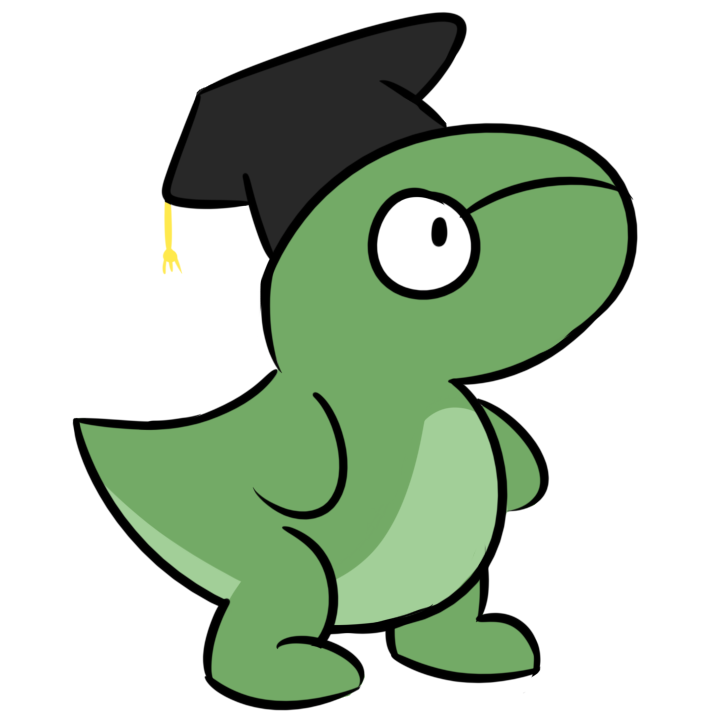
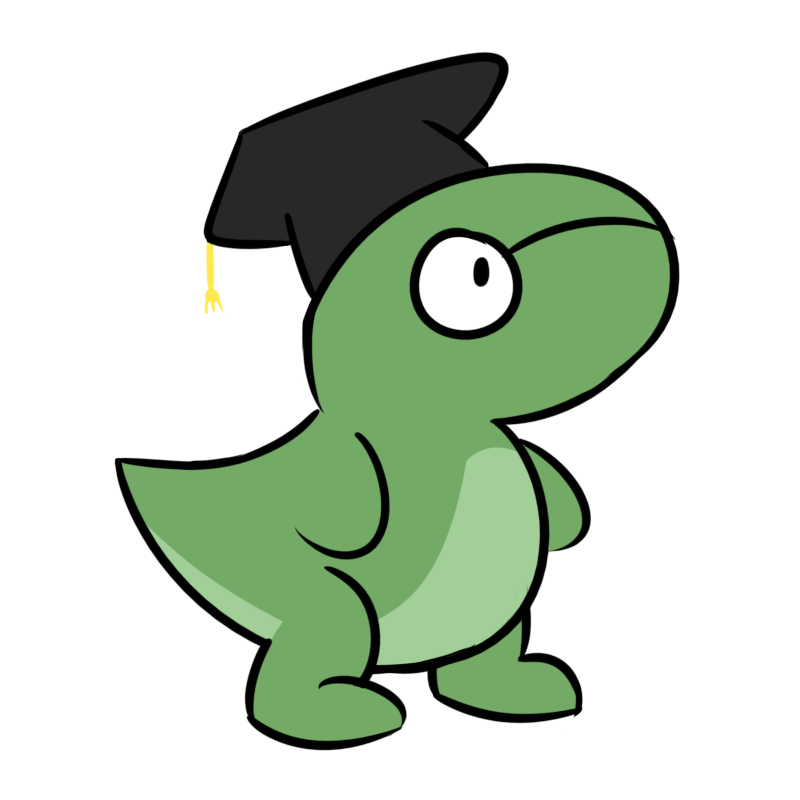
Made Mascot image change based on timer, ended game at 0 seconds
Nothing personnel kid

Changed region(s): [[0.0917, 0.0, 0.8861, 1.0], [0.55, 0.6111, 0.5806, 0.7028]]

diff --git a/src/components.js b/src/components.js
@@ -7,7 +7,7 @@ const baseWordScore = 200;
 const bonusLetterMultiplier = 1.5;
 const minimumWordLength = 3;
 const startingTileCount = 10;
-const startingRoundLength = 60;
+const startingRoundLength = 30;
 
 const alphabet = "ABCDEFGHIJKLMNOPQRSTUVWXYZ";
 
@@ -30,6 +30,7 @@ class Game extends React.Component {
       wordDefinition: "",
       startingWord: "LOREMIPSUM",
       availableLetters: ["L", "O", "R", "E", "M", "I", "P", "S", "U", "M"],
+      mascotSrc: "../mascot.png",
     };
     this.addLetter = this.addLetter.bind(this);
     this.removeLetter = this.removeLetter.bind(this);
@@ -101,6 +102,7 @@ class Game extends React.Component {
       wordDisplay: [],
       availableTiles: Array(startingTileCount).fill(1),
       letterTray: this.generateLetterTray(),
+      wordSet: new Set(),
     });
 
     //reset the timer
@@ -109,6 +111,9 @@ class Game extends React.Component {
   }
 
   addLetter(letter, trayPosition, wordPosition) {
+    if (this.timer === 0) {
+      this.startTimer();
+    }
     if (this.state.availableTiles[trayPosition] === 1) {
       this.setState({
         word: this.state.word + letter,
@@ -174,6 +179,7 @@ class Game extends React.Component {
 
   goodEnding() {
     this.setState({ mascotDialogue: "Nice job!" });
+    this.stopTimer();
   }
 
   badEnding() {
@@ -193,8 +199,9 @@ class Game extends React.Component {
         });
         this.clearWord();
         // Run validation for if the played word is the longest possible word, if it is the game ends and next round starts
-        if (true) {
+        if (this.state.word === this.state.startingWord) {
           this.goodEnding();
+        } else {
         }
       } else {
         this.setState({
@@ -260,8 +267,29 @@ class Game extends React.Component {
     });
 
     if (seconds === 0) {
+      // Shoot
+      this.setState({ mascotSrc: "../thesaurusrex-2.png" });
       clearInterval(this.timer); // stops timer
       this.timer = 0;
+      this.badEnding();
+    } else if (seconds <= 10) {
+      // Look
+      this.setState({
+        mascotSrc: "../thesaurusrex-1.png",
+        mascotDialogue: "10 seconds left!",
+      });
+    } else if (seconds <= 20) {
+      // Gun
+      this.setState({
+        mascotSrc: "../thesaurusrex.png",
+        mascotDialogue: "20 seconds left!",
+      });
+    } else if (seconds > 20 && seconds < 30) {
+      // Put Gun Away
+      this.setState({
+        mascotSrc: "../mascot.png",
+        mascotDialogue: "Safe....for now",
+      });
     }
   }
 
@@ -284,7 +312,10 @@ class Game extends React.Component {
     return (
       <div className="RowTray" id="GameContainer">
         <div className="SideColumn">
-          <Mascot dialogue={this.state.mascotDialogue} />
+          <Mascot
+            dialogue={this.state.mascotDialogue}
+            src={this.state.mascotSrc}
+          />
           <Options />
           <button onClick={this.reset}>Reset Game</button>
         </div>
@@ -377,7 +408,7 @@ const Mascot = (props) => {
   return (
     <div id="MascotBox" className="SidebarBox">
       <img
-        src="../mascot.png"
+        src={props.src}
         id="Mascot"
         alt="Thesaurus Rex"
         title="Thesaurus Rex"
